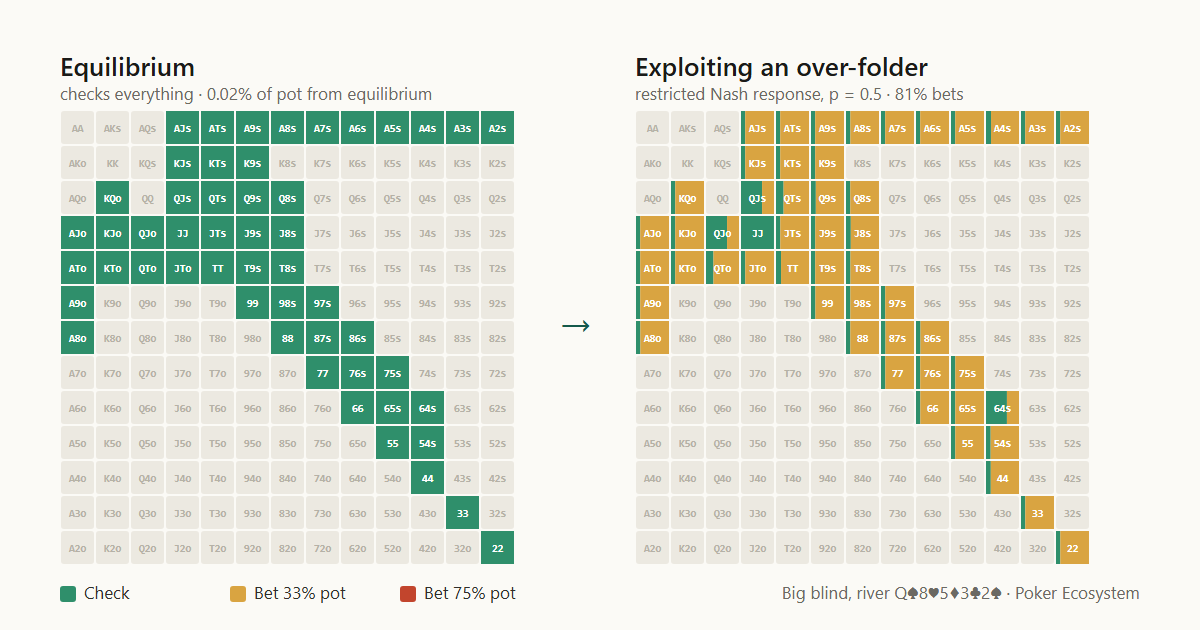
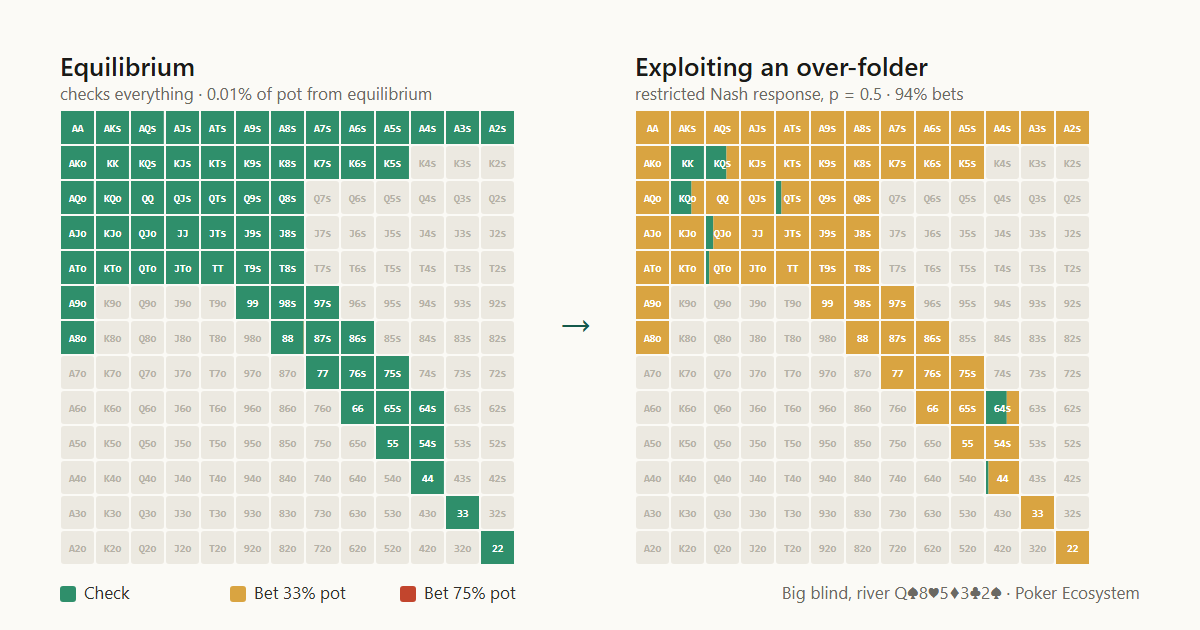
Poker ecosystem: make the lab reproduce the benchmark exploit numbers
The default river spot and opponent model now match the benchmark, and the restricted
Nash response is solved from scratch (37% of the pot, as reported, instead of 31%).
New cover. Only poker-ecosystem files; other unpublished local work is not included.

diff --git a/projects/poker-ecosystem/index.html b/projects/poker-ecosystem/index.html
@@ -81,13 +81,13 @@
 <div><dt>River solves</dt><dd class="is-text">0.1% of the pot in about 150 iterations</dd></div><div><dt>Browser engine vs Rust engine</dt><dd class="is-text">6,344 parity checks, all equal</dd></div><div><dt>Opponent-model error</dt><dd class="is-text">0.077 at 50 hands, 0.019 at 2,500</dd></div><div><dt>Automated tests</dt><dd class="is-text">67 Rust, 107 Python</dd></div>  </dl>
 <ul class="stack stack--sheet"><li>Rust</li><li>Python</li><li>JavaScript</li></ul></section>
 
-  <figure class="post__cover"><img src="/media/poker-ecosystem/cover.png" alt="Two 13 by 13 grids of the big blind&#39;s river strategy on Q-8-5-3-2. At equilibrium every hand checks; against a button that folds 70% of the time to bets, the exploiting strategy bets 81% of its range."></figure>
+  <figure class="post__cover"><img src="/media/poker-ecosystem/cover.png" alt="Two 13 by 13 grids of the big blind&#39;s river strategy on Q-8-5-3-2. At equilibrium every hand checks; against a button that folds 70% of the time to bets, the exploiting strategy bets 94% of its range."></figure>
 
   <div class="post__body">
     <div class="prose">
 <p>Most poker tools answer one question: what is the equilibrium play? This project asks the next one as well. How far is a given answer from equilibrium, and what should change when you know how an opponent actually plays? It brings together exact hand evaluation and equity, a family of game-theory solvers that report their own error, a Bayesian model of opponents, exploitative strategies built on that model, and hand-history analysis, in one codebase with one test suite.</p>
 <h2 id="try-it">Try it <a class="header-anchor" href="#try-it">#</a></h2>
-<p>The lab below is the real engine running in your browser. Pick a spot and press <em>Solve</em>: the convergence chart shows how far the strategy is from equilibrium after each batch of iterations, and the grid shows what every hand does. Then describe how an opponent plays (say, the button folds 70% of the time to river bets), press <em>Compare GTO and exploit</em>, and watch the strategy change and what that change costs in safety. <a href="/apps/poker-ecosystem/">Open it full screen</a> for more room.</p>
+<p>The lab below is the real engine running in your browser. Pick a spot and press <em>Solve</em>: the convergence chart shows how far the strategy is from equilibrium after each batch of iterations, and the grid shows what every hand does. Then describe how an opponent plays (say, the button folds 70% of the time to river bets), press <em>Compare GTO and exploit</em>, and watch the strategy change and what that change costs in safety. The default spot and opponent are the ones behind the exploitation results below, so the lab reproduces those numbers. <a href="/apps/poker-ecosystem/">Open it full screen</a> for more room.</p>
 <iframe src="/apps/poker-ecosystem/?embed#solver" title="Poker research lab" loading="lazy" style="width:100%;height:1250px;border:1px solid var(--rule);border-radius:12px;background:var(--bg)"></iframe>
 <h2 id="what-it-does">What it does <a class="header-anchor" href="#what-it-does">#</a></h2>
 <ul>

diff --git a/apps/poker-ecosystem/js/worker.js b/apps/poker-ecosystem/js/worker.js
@@ -46,14 +46,16 @@ function bestResponseReport(node) {
   return report(gto, node, { vsModel: true, strategy: sigma });
 }
 
-function solveFresh(config, algo, iterations, onProgress) {
+/**
+ * A restricted Nash response solved from scratch, as in the Rust benchmarks. Starting it
+ * from the equilibrium solve would leave the equilibrium's strategy sums in the average
+ * strategy and understate the exploit (32% of the pot instead of 37% on the benchmark spot).
+ */
+function solveRnr(config, algo, modelPlayer, strategy, p) {
   const s = new HuSolver(prepareSpot(config), { algo });
-  const every = Math.max(10, Math.round(iterations / 25));
-  while (s.iterations < iterations) {
-    const next = Math.min(s.iterations + every, iterations);
-    while (s.iterations < next) s.iterate();
-    if (onProgress) onProgress(s);
-  }
+  s.setModel(modelPlayer, strategy, p);
+  const iterations = Math.max(2 * lastIterations, 300);
+  while (s.iterations < iterations) s.iterate();
   return s;
 }
 
@@ -99,9 +101,7 @@ self.onmessage = (ev) => {
       gto.setModel(mp, strategy, 0);
       const gv = gto.valuesVsModel(exploiter);
       const ge = gto.exploitability();
-      rnr = solveFresh(gto.spot.config, gto.algoName, lastIterations, null);
-      rnr.setModel(mp, strategy, m.p);
-      while (rnr.iterations < 2 * lastIterations) rnr.iterate();
+      rnr = solveRnr(gto.spot.config, gto.algoName, mp, strategy, m.p);
       const rv = rnr.valuesVsModel(exploiter);
       const loss = exploiterLoss(rnr, mp);
       rnr.setModel(mp, strategy, m.p);
@@ -117,9 +117,7 @@ self.onmessage = (ev) => {
       if (!gto || !model) throw new Error('run an exploit analysis first');
       const mp = model.player, exploiter = 1 - mp, points = [];
       for (const p of m.ps) {
-        const s = solveFresh(gto.spot.config, gto.algoName, lastIterations, null);
-        s.setModel(mp, model.strategy, p);
-        while (s.iterations < 2 * lastIterations) s.iterate();
+        const s = solveRnr(gto.spot.config, gto.algoName, mp, model.strategy, p);
         const v = s.valuesVsModel(exploiter);
         const loss = exploiterLoss(s, mp);
         points.push({ p, evVsModel: v.ev, exploitabilityPct: loss });

diff --git a/apps/poker-ecosystem/js/ui/presets.js b/apps/poker-ecosystem/js/ui/presets.js
@@ -4,10 +4,12 @@ const menu = (bets, raises = [1], max = 2, allin = 0.67) => ({ bets, raises, max
 export const PRESETS = [
   {
     name: 'NLH single-raised pot river: BB vs BTN on Q♠8♥5♦3♣2♠',
-    note: 'A 6.5 bb single-raised pot on the river. The big blind defends wide; the button\'s range here is strong (sets and overpairs), so at equilibrium the big blind checks everything. Tell the solver the button folds too often and watch the big blind start betting.',
+    note: 'A 6 bb single-raised pot on the river: the benchmark spot behind the convergence, abstraction and exploitation results in the Research tab. The big blind defends wide; the button\'s range here is strong (sets and overpairs), so at equilibrium the big blind checks everything. Tell the solver the button folds too often and watch the big blind start betting.',
     iters: 800,
-    profile: { mp: 1, fold: 0.7, raise: 0.03, stab: 0.5, bluff: 0.33 },
-    config: { game: 'NLH', board: 'Qs8h5d3c2s', ranges: ['22-JJ,A2s-AJs,K9s-KJs,Q8s+,J8s+,T8s+,97s+,86s+,75s+,64s+,54s,A8o-AJo,KTo+,QTo+,JTo', 'TT+,AQs+,AKo,KQs,QJs,JTs,T9s,98s,A5s,A4s,Q8s,88,55,33,22,KQo,QJo'], pot: 6.5, stacks: [97], menu: menu([0.33, 0.75]) },
+    // the benchmark's over-folder: folds 70% to bets, raises 3%, equilibrium play elsewhere
+    profile: { mp: 1, fold: 0.7, raise: 0.03, bluff: 0.33 },
+    // identical to standard_spots()[0] in crates/pe-cli/src/bench.rs, so the lab reproduces the reported numbers
+    config: { game: 'NLH', board: 'Qs8h5d3c2s', ranges: ['22+,A2s+,K5s+,Q8s+,J8s+,T8s+,97s+,86s+,75s+,64s+,54s,A8o+,KTo+,QTo+,JTo', 'TT+,AQs+,AKo,KQs,QJs,JTs,T9s,98s,A5s,A4s,Q8s,88,55,33,22,KQo'], pot: 6, stacks: [97], menu: menu([0.33, 0.75]) },
   },
   {
     name: 'NLH 3-bet pot river: A♥9♦4♣4♠2♥',

diff --git a/apps/poker-ecosystem/js/ui/solver-tab.js b/apps/poker-ecosystem/js/ui/solver-tab.js
@@ -36,14 +36,18 @@ function loadPreset(i) {
   $('#preset-note').textContent = p.note;
   $('#preset').dataset.allin = c.menu.allin_threshold;
   const pr = p.profile;
-  setProfile({ mp: pr.mp, fold_to_bet: pr.fold, raise_vs_bet: pr.raise, bet_when_checked_to: pr.stab, bluff_share: pr.bluff });
+  setProfile({ mp: pr.mp, fold_to_bet: pr.fold, raise_vs_bet: pr.raise, bet_when_checked_to: pr.stab ?? null, bluff_share: pr.bluff });
 }
 
+/** bet_when_checked_to: a frequency turns that part of the model on, null turns it off. */
 function setProfile(pr) {
   if (pr.mp !== undefined) $('#mp').value = String(pr.mp);
   if (pr.fold_to_bet !== undefined) $('#fold').value = pr.fold_to_bet;
   if (pr.raise_vs_bet !== undefined) $('#raise').value = pr.raise_vs_bet;
-  if (pr.bet_when_checked_to !== undefined) $('#stab').value = pr.bet_when_checked_to;
+  if (pr.bet_when_checked_to !== undefined) {
+    $('#use-stab').checked = pr.bet_when_checked_to !== null;
+    if (pr.bet_when_checked_to !== null) $('#stab').value = pr.bet_when_checked_to;
+  }
   if (pr.bluff_share !== undefined) $('#bluff').value = pr.bluff_share;
   syncOutputs();
 }
